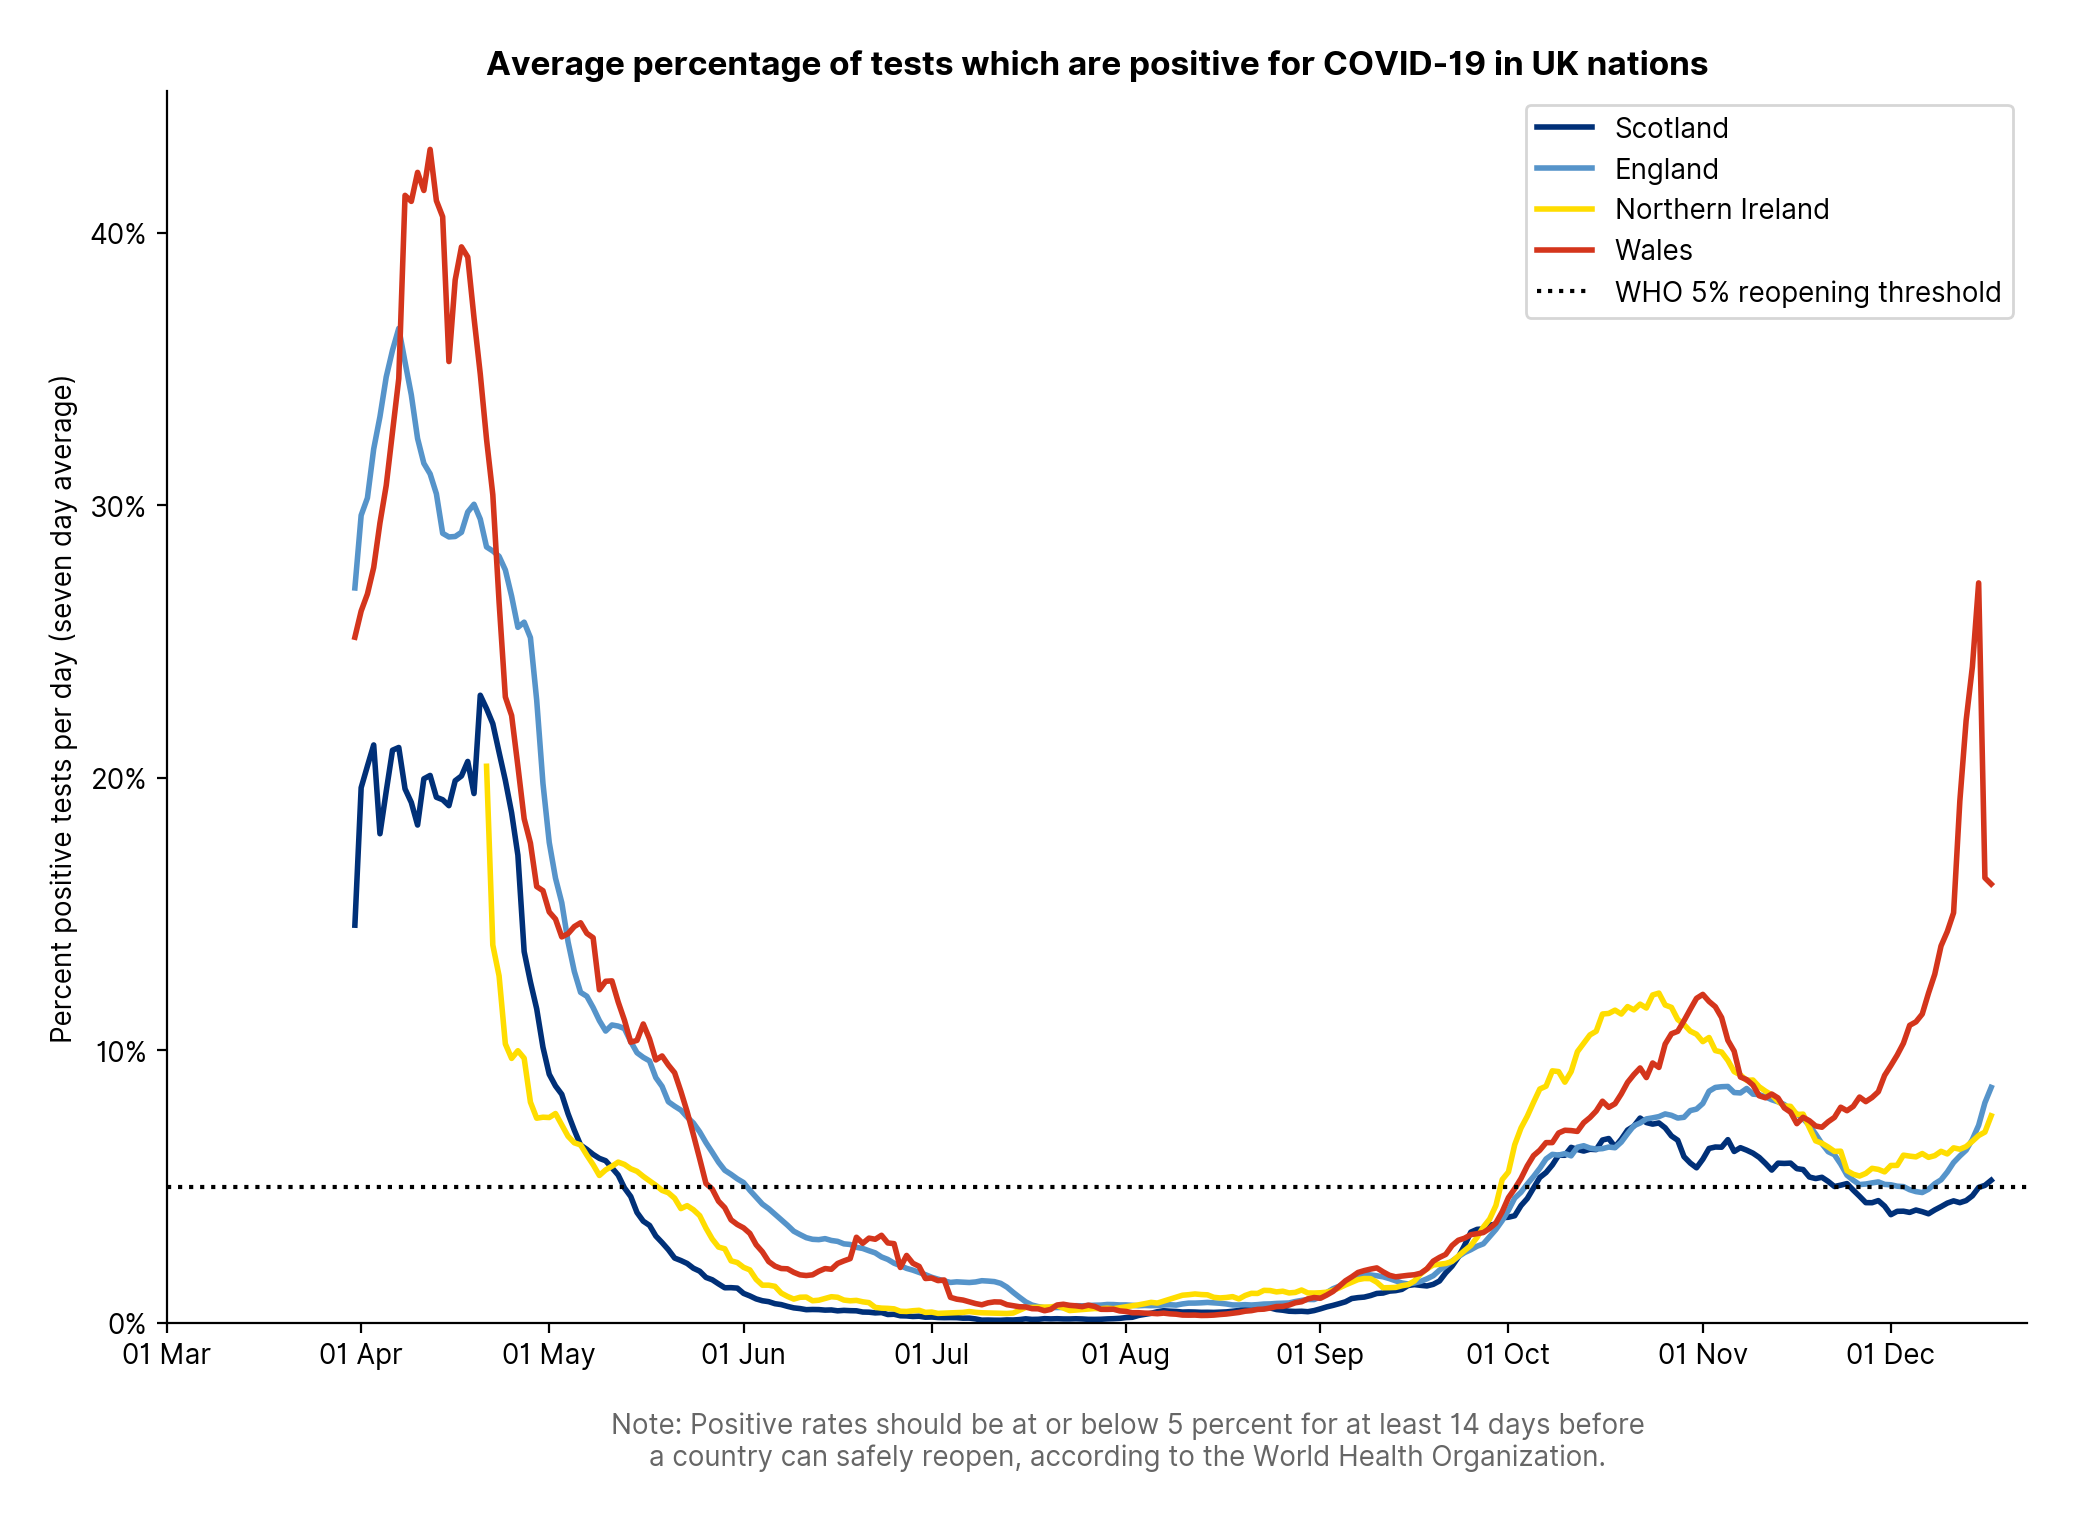
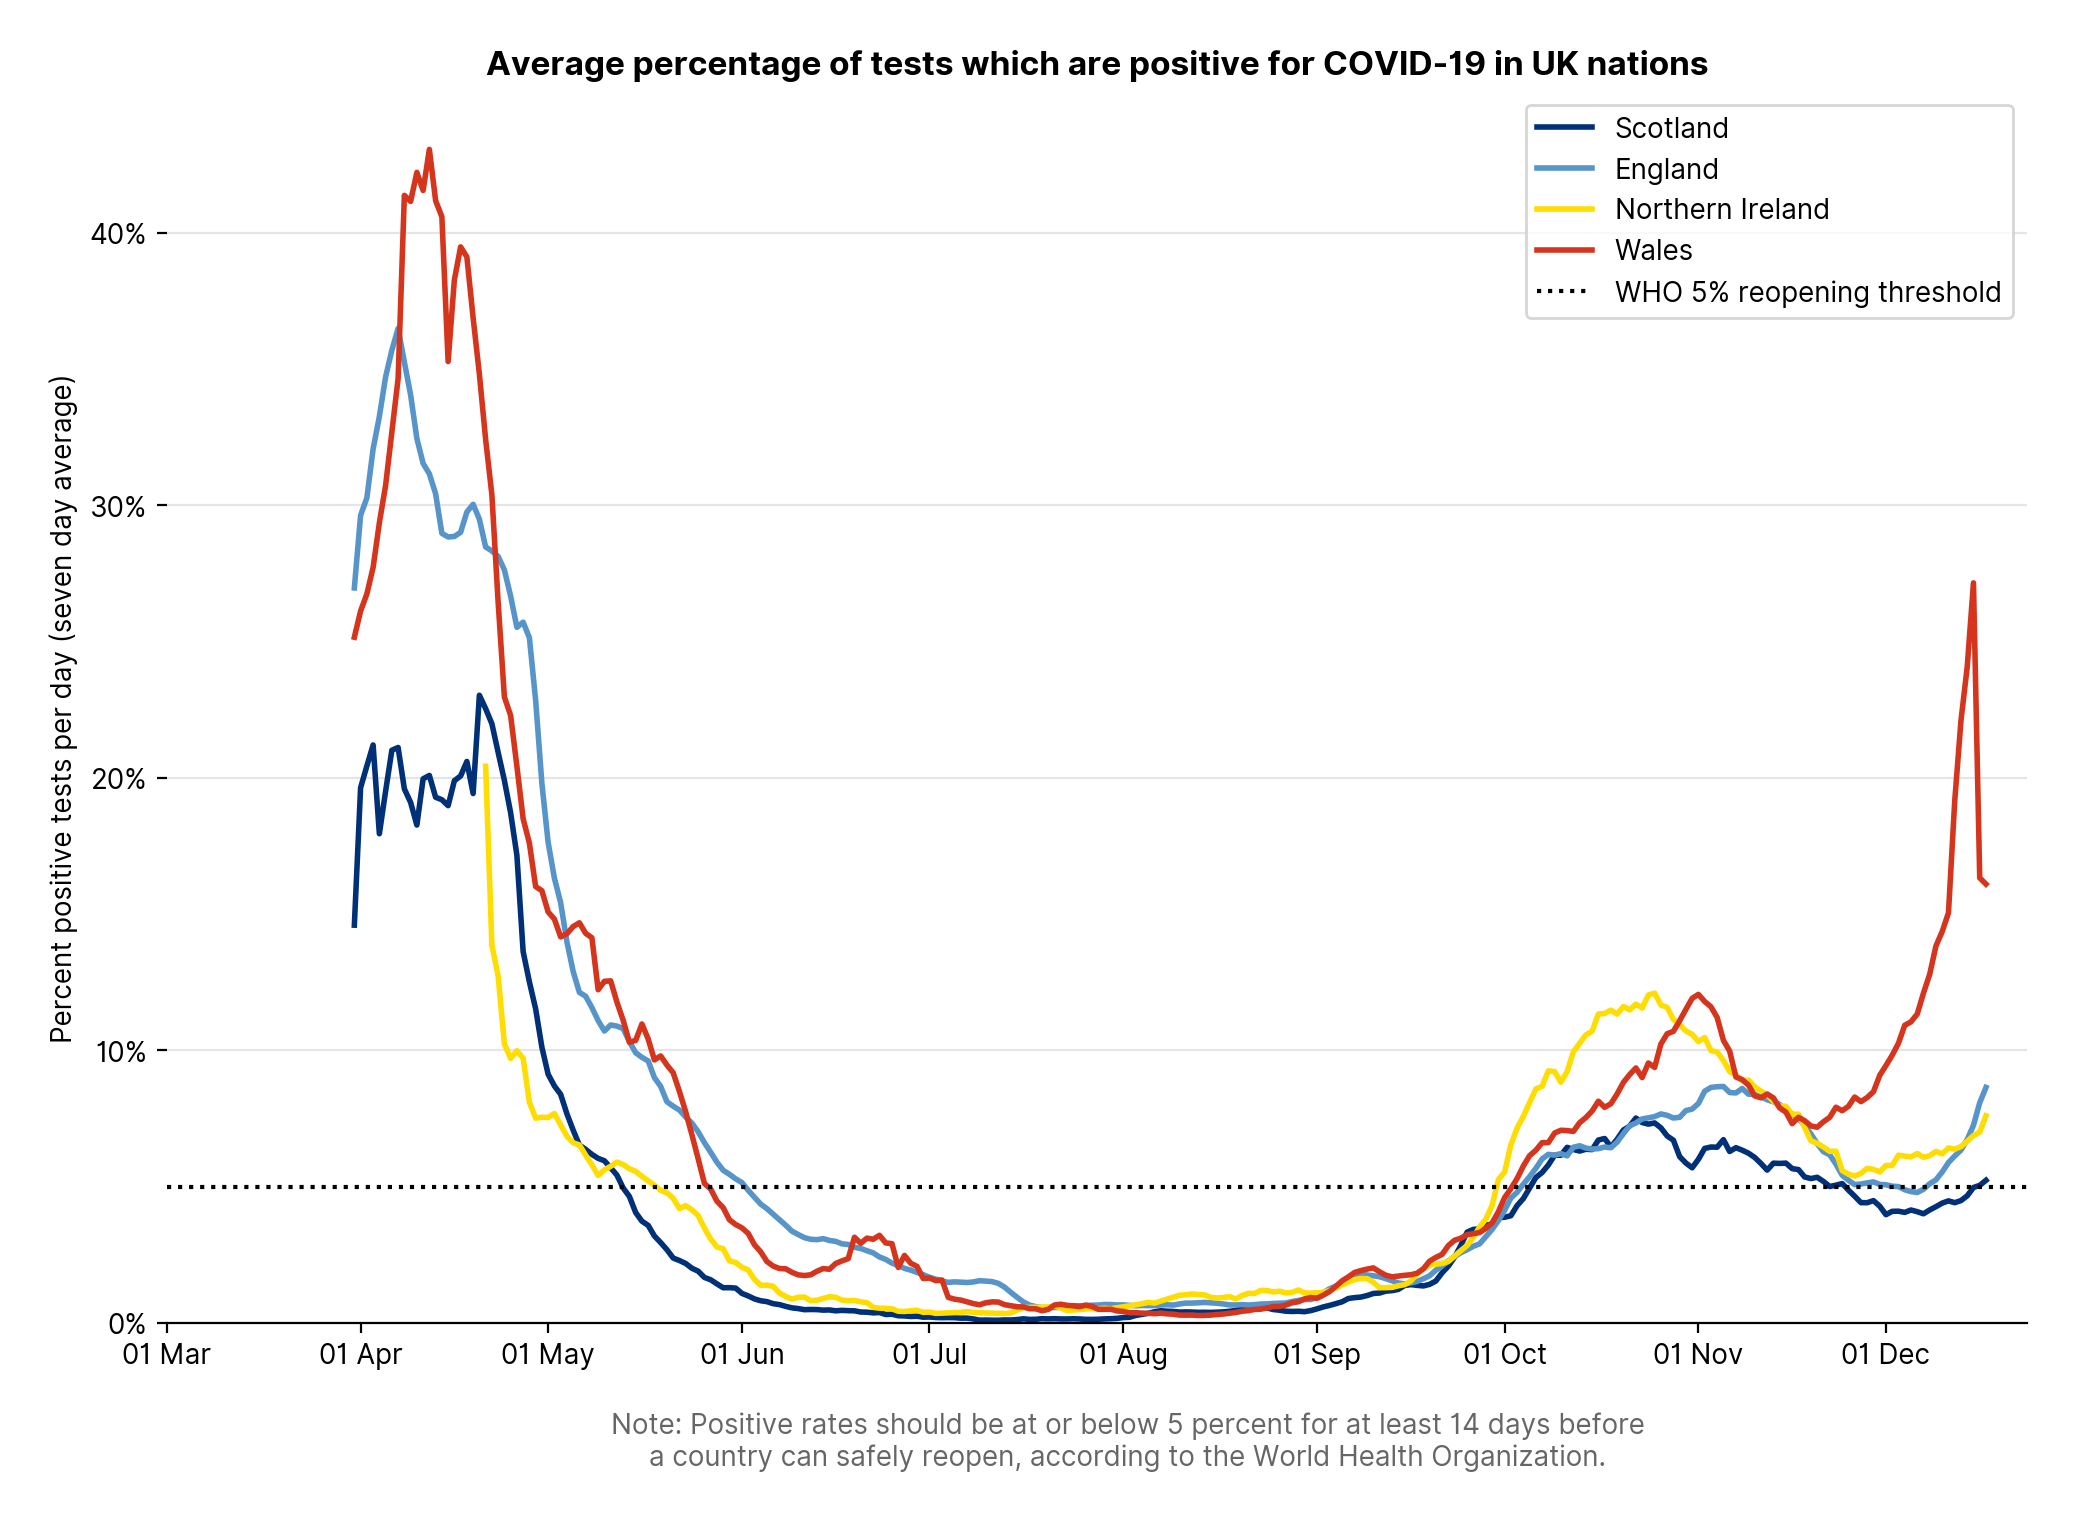
Fix dates in timeline plot

diff --git a/plot.py b/plot.py
@@ -285,6 +285,7 @@ def percentPositivePlot(t, plotsDir, avg, colorsList, fignames, outerI, nations,
         )
         setYLabel(ax, "Percent positive tests per day", avg)
         percentAxis(ax)
+        showGrid(ax)
     ax.set_xlabel(
         """
         Note: Positive rates should be at or below 5 percent for at least 14 days before
@@ -960,7 +961,8 @@ def heatMapPlot(t, dataDir="data/", plotsDir="plots/"):
 
 
 def timelinePlot(t, dataDir="data/", plotsDir="plots/"):
-    """mask mandate"""
+    """mask mandate
+    NI [dt(2020, 9, 22), ?],"""
     data = [
         {
             "name": "Scotland",
@@ -991,7 +993,7 @@ def timelinePlot(t, dataDir="data/", plotsDir="plots/"):
             "Closed pubs": [
                 [dt(2020, 3, 23), dt(2020, 7, 4),],
                 [dt(2020, 11, 5), dt(2020, 12, 2),],
-                [dt(2020, 12, 2), None,],
+                [dt(2020, 12, 26), None,],
             ],
         },
         {
@@ -1023,6 +1025,7 @@ def timelinePlot(t, dataDir="data/", plotsDir="plots/"):
             "Tiered system": [[None],],
             "Closed pubs": [
                 [dt(2020, 3, 23), dt(2020, 8, 3)],
+                [dt(2020, 10, 23), dt(2020, 11, 9)],
                 [dt(2020, 12, 4), None],
             ],
         },
@@ -1032,7 +1035,7 @@ def timelinePlot(t, dataDir="data/", plotsDir="plots/"):
 
     figname = "Timeline"
     updateProgressBar(figname, t)
-    fig, axs = plt.subplots(len(data), 1, sharex=True, constrained_layout=True)
+    fig, axs = plt.subplots(len(data), 1,constrained_layout=True)
 
     for j, ax in enumerate(axs):
         ax.set_title(data[j]["name"])
